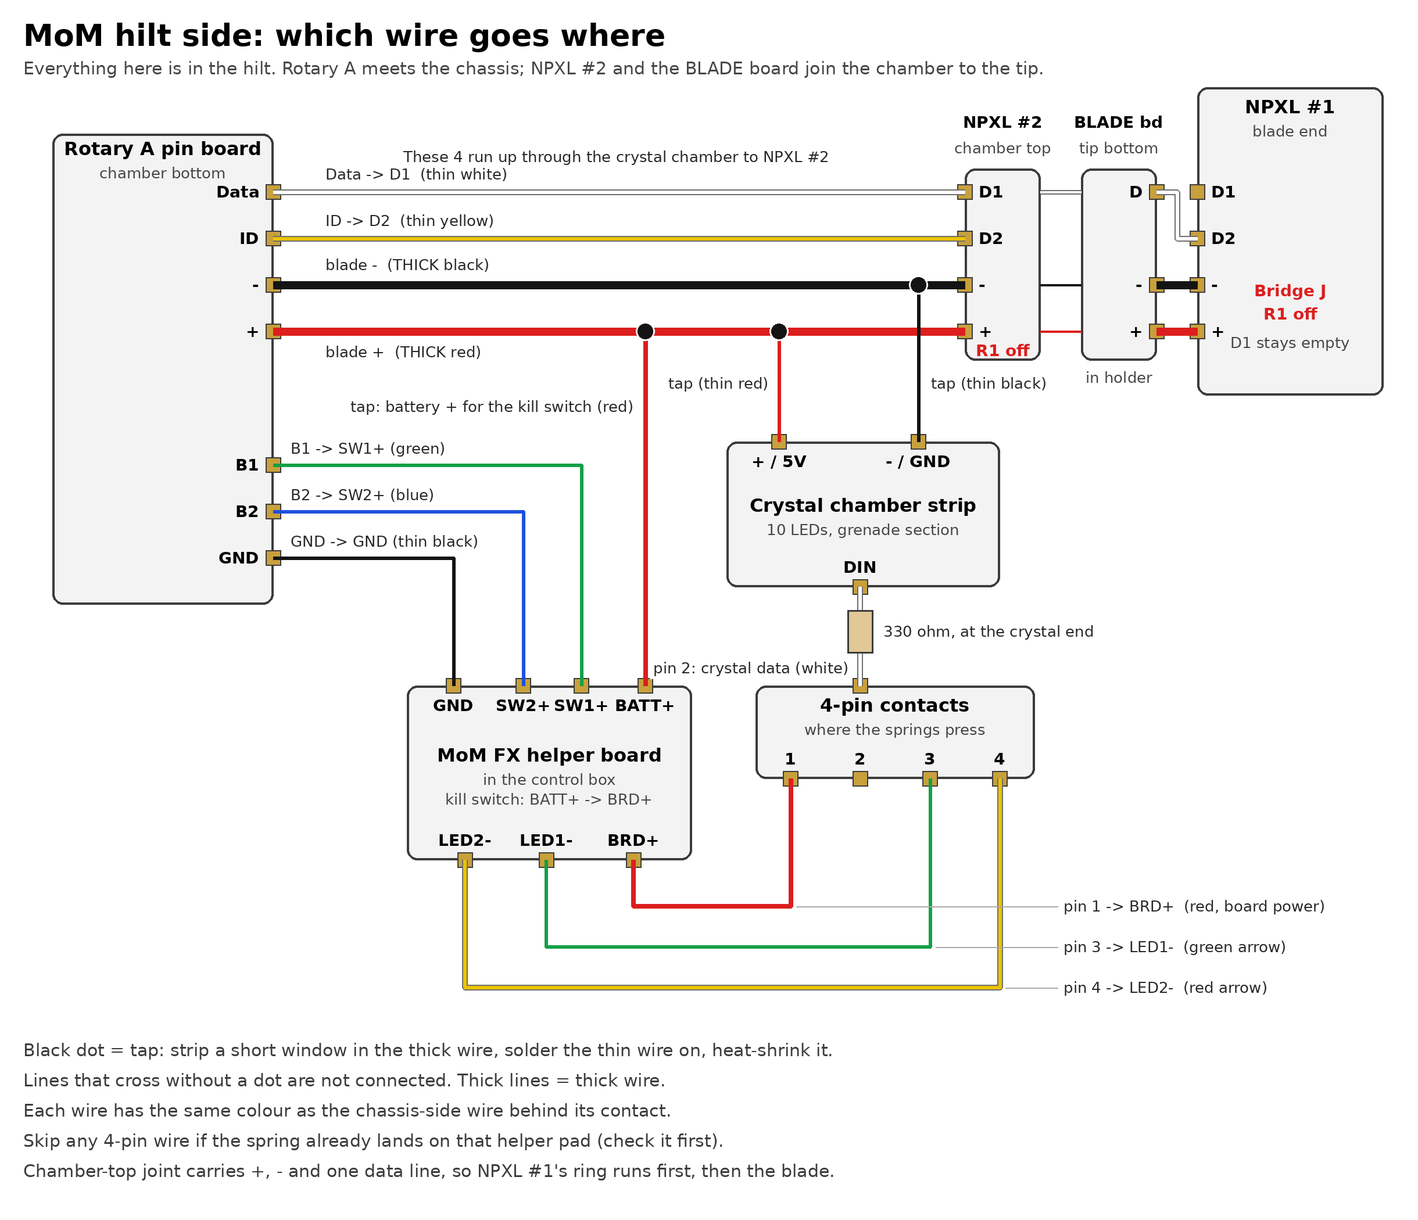
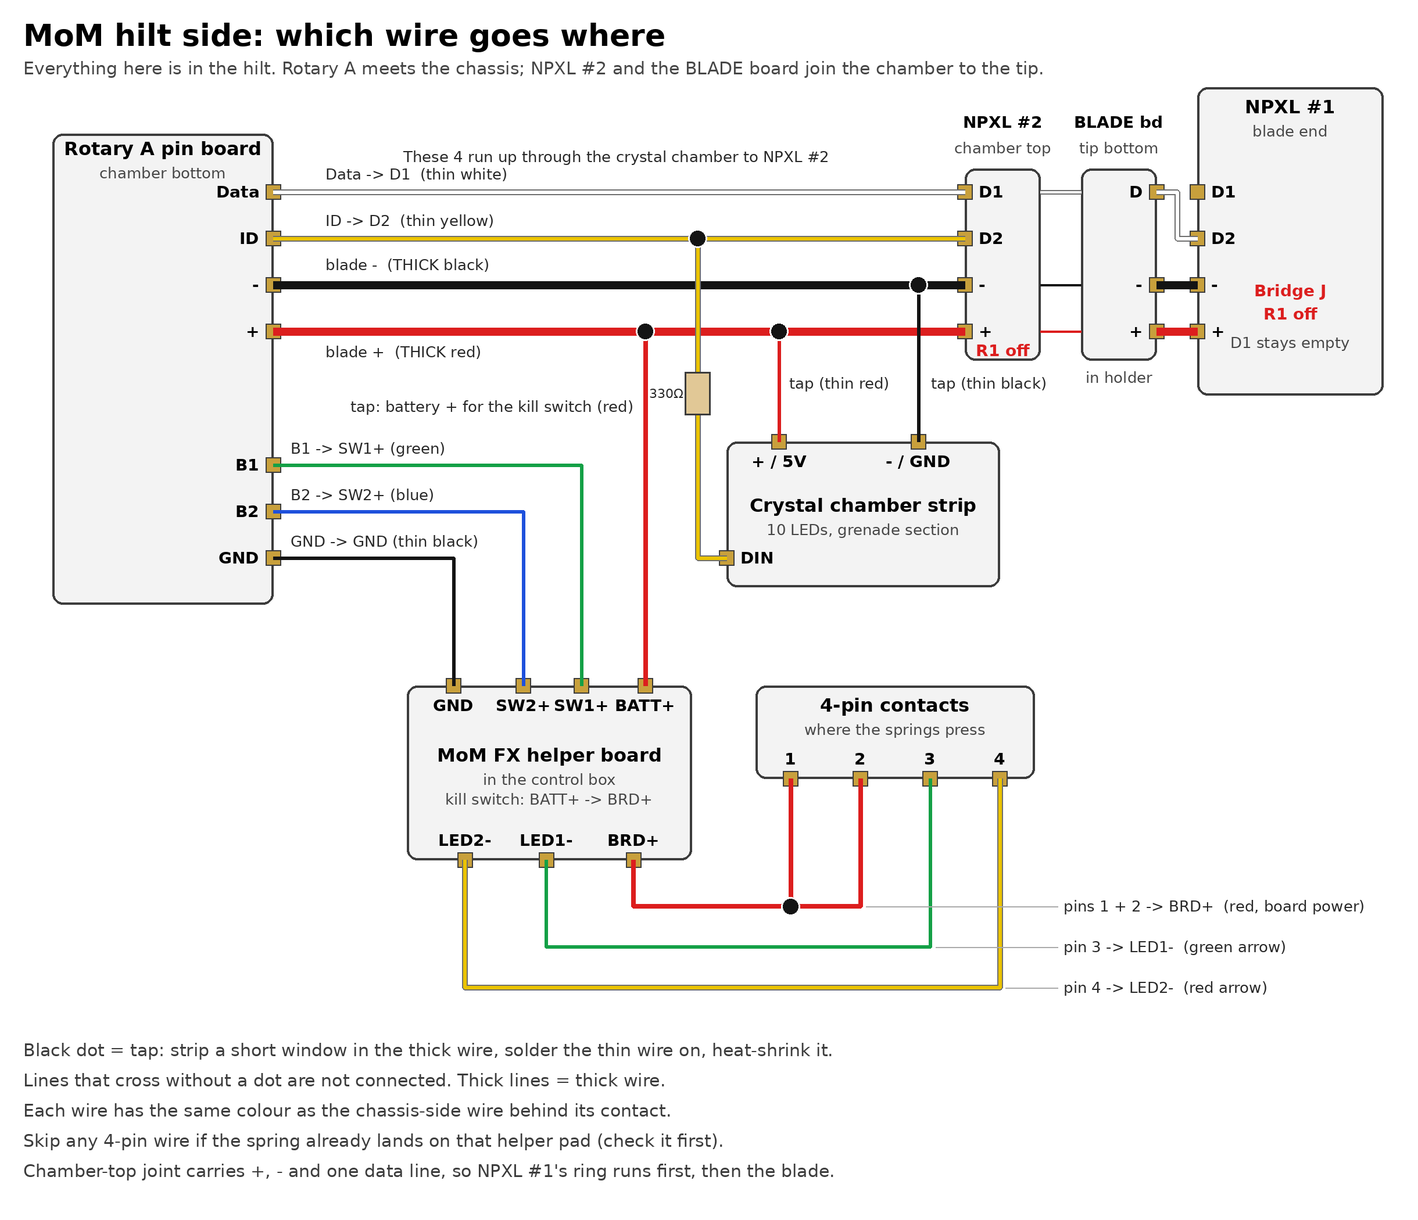
Feed the crystal strip from Data2 and put pin 2 back on BATT+
No wire can cross from the chassis into the crystal chamber, so the strip
taps the Data2 wire inside the chamber and copies NPXL #2's ring. Data3
is spare and 4-pin pin 2 joins pin 1 on BATT+. The config drops to 5
blades.

Claude-Session: https://claude.ai/code/session_01265pwD5zDbVVSh7CxSi4nL

diff --git a/saber-wiring/proffieos/mom_config.h b/saber-wiring/proffieos/mom_config.h
@@ -1,26 +1,27 @@
 // MoM (Magic of Myth) Luke ROTJ saber - Proffieboard V3.9, ProffieOS 8.10.
 //
 // Started from Fredrik Hubbe's Proffieboard V3 configurator output
-// (Illuminated PCB blade, neopixel crystal chamber, 2 buttons, FSC-BT909),
-// then extended with the control box's two lights. Wiring is in
-// ../README.md and ../out/mom/proffie-pads.png.
+// (Illuminated PCB blade, 2 buttons, FSC-BT909), then extended with the
+// control box's two lights. Wiring is in ../README.md,
+// ../out/mom/proffie-pads.png and ../out/mom/hilt-wiring.png.
 //
 // Data1 runs through the joint at the top of the crystal chamber (NPXL #2's
 // centre pin to the BLADE board), then into NPXL #1 at the blade end, which
 // is chained (Shtok's Option 3: data into D2, J bridged). So the Data1 strip
 // is RING_LEDS connector pixels first, then the 130 blade pixels.
 //
+// Data2 lights the crystal chamber: NPXL #2's 16-pixel ring at the top of
+// the chamber, with the 10-pixel crystal strip tapped onto the same data
+// wire (through 330 ohm). The strip shows the same pattern as the first 10
+// pixels of the ring.
+//
 // Blades, in the order every preset lists its styles:
 //   1. Main blade: 130 pixels on Data1 after the ring, negative on LED2 + LED3
 //   2. NPXL #1 ring at the blade end (plus the BLADE board's LEDs if they
 //      turn out to be in the chain), the first RING_LEDS pixels on Data1
-//   3. NPXL #2 ring at the top of the crystal chamber, first half (Data2)
-//   4. NPXL #2 ring, second half (same strip, interleaved)
-//   5. Crystal chamber: 10 pixels on Data3, carried to the hilt on 4-pin
-//      connector pin 2 (330 ohm at the crystal end). Its + and - are tapped
-//      from the blade's + and - lines in the hilt, so it shares LED2 + LED3.
-//   6. Control box green light, on LED5
-//   7. Control box red light, on LED6
+//   3. Crystal chamber lights: NPXL #2's ring and the crystal strip (Data2)
+//   4. Control box green light, on LED5
+//   5. Control box red light, on LED6
 //
 // Font folders: the first preset expects your Luke font in a folder named
 // LukeROTJ on the SD card. The others use the free fonts and tracks from
@@ -28,12 +29,12 @@
 
 #ifdef CONFIG_TOP
 #include "proffieboard_v3_config.h"
-#define NUM_BLADES 7
+#define NUM_BLADES 5
 #define NUM_BUTTONS 2
 #define VOLUME 1000
 // Pixels ahead of the blade on Data1: 16 for NPXL #1's ring, or 21 if the
-// BLADE board's 5 LEDs are in the chain too. With the old firmware, the
-// number of dark LEDs at the blade tip tells you which.
+// BLADE board's 5 LEDs turn out to be in the chain too (then the top 5 blade
+// LEDs stay dark with 16).
 #define RING_LEDS 16
 const unsigned int maxLedsPerStrip = RING_LEDS + 130;
 #define CLASH_THRESHOLD_G 1.0
@@ -41,7 +42,7 @@ const unsigned int maxLedsPerStrip = RING_LEDS + 130;
 #define ENABLE_MOTION
 #define ENABLE_WS2811
 #define ENABLE_SD
-// The main blade, both connector rings and the crystal share the LED2/LED3
+// The blade, both connector rings and the crystal strip share the LED2/LED3
 // power pins.
 #define SHARED_POWER_PINS
 // FSC-BT909 Bluetooth on the RX/TX pads.
@@ -55,8 +56,6 @@ Preset presets[] = {
   { "LukeROTJ", "tracks/mars.wav",
     StyleNormalPtr<AudioFlicker<GREEN, Rgb<0,160,0>>, WHITE, 300, 800>(),
     StyleNormalPtr<AudioFlicker<GREEN, Rgb<0,160,0>>, WHITE, 300, 800>(),
-    StyleNormalPtr<AudioFlicker<GREEN, Rgb<0,160,0>>, WHITE, 300, 800>(),
-    StyleNormalPtr<AudioFlicker<GREEN, Rgb<0,160,0>>, WHITE, 300, 800>(),
     StyleNormalPtr<Pulsing<GREEN, Rgb<0,40,0>, 1500>, WHITE, 300, 800>(),
     StyleNormalPtr<GREEN, WHITE, 300, 800>(),
     StyleNormalPtr<RED, WHITE, 300, 800>(),
@@ -64,15 +63,11 @@ Preset presets[] = {
   { "SmthJedi", "tracks/venus.wav",
     StyleNormalPtr<AudioFlicker<GREEN, Rgb<0,160,0>>, WHITE, 300, 800>(),
     StyleNormalPtr<AudioFlicker<GREEN, Rgb<0,160,0>>, WHITE, 300, 800>(),
-    StyleNormalPtr<AudioFlicker<GREEN, Rgb<0,160,0>>, WHITE, 300, 800>(),
-    StyleNormalPtr<AudioFlicker<GREEN, Rgb<0,160,0>>, WHITE, 300, 800>(),
     StyleNormalPtr<Pulsing<GREEN, Rgb<0,40,0>, 1500>, WHITE, 300, 800>(),
     StyleNormalPtr<GREEN, WHITE, 300, 800>(),
     StyleNormalPtr<RED, WHITE, 300, 800>(),
     "jedi green"},
   { "SmthGrey", "tracks/mercury.wav",
-    StyleNormalPtr<AudioFlicker<BLUE, Rgb<0,0,160>>, WHITE, 300, 800>(),
-    StyleNormalPtr<AudioFlicker<BLUE, Rgb<0,0,160>>, WHITE, 300, 800>(),
     StyleNormalPtr<AudioFlicker<BLUE, Rgb<0,0,160>>, WHITE, 300, 800>(),
     StyleNormalPtr<AudioFlicker<BLUE, Rgb<0,0,160>>, WHITE, 300, 800>(),
     StyleNormalPtr<Pulsing<BLUE, Rgb<0,0,40>, 1500>, WHITE, 300, 800>(),
@@ -85,8 +80,6 @@ Preset presets[] = {
     StyleNormalPtr<BLACK, BLACK, 300, 800>(),
     StyleNormalPtr<BLACK, BLACK, 300, 800>(),
     StyleNormalPtr<BLACK, BLACK, 300, 800>(),
-    StyleNormalPtr<BLACK, BLACK, 300, 800>(),
-    StyleNormalPtr<BLACK, BLACK, 300, 800>(),
     "battery\nlevel"},
 };
 
@@ -94,9 +87,7 @@ BladeConfig blades[] = {
  { 0,
     SubBlade(RING_LEDS, RING_LEDS + 129, WS281XBladePtr<RING_LEDS + 130, bladePin, Color8::GRB, PowerPINS<bladePowerPin2, bladePowerPin3> >()),
     SubBlade(0, RING_LEDS - 1, NULL),
-    SubBladeWithStride(0, 15, 2, WS281XBladePtr<16, blade2Pin, Color8::GRB, PowerPINS<bladePowerPin2, bladePowerPin3> >()),
-    SubBladeWithStride(1, 15, 2, NULL),
-    WS281XBladePtr<10, blade3Pin, Color8::GRB, PowerPINS<bladePowerPin2, bladePowerPin3> >(),
+    WS281XBladePtr<16, blade2Pin, Color8::GRB, PowerPINS<bladePowerPin2, bladePowerPin3> >(),
     SimpleBladePtr<CH2LED, NoLED, NoLED, NoLED, bladePowerPin5, -1, -1, -1>(),
     SimpleBladePtr<CH1LED, NoLED, NoLED, NoLED, bladePowerPin6, -1, -1, -1>(),
     CONFIGARRAY(presets) },

diff --git a/saber-wiring/README.md b/saber-wiring/README.md
@@ -20,7 +20,7 @@ The configurator doesn't know about the Shtok rotary connector or the MoM helper
 | Shtok Rotary NeoPixel & 2 Button PCB connector set (1 set) | Joins the removable chassis to the bottom of the crystal chamber. Carries power, blade data, connector-LED data and both buttons |
 | Shtok NPXL V4 hilt-side connectors (2) + 1" holder | **#1**, in the 1" holder at the blade end, is where the blade plugs in. **#2** sits at the top of the crystal chamber, pins up. Each has 16 LEDs of its own |
 | Round **BLADE** board (Shtok blade-side NPXL board, 5 LEDs) + the designer's copper and black pixel holder | Sits at the bottom of the tip section, flat contacts down onto NPXL #2's pins. Joins the crystal chamber to the tip: +, − and one data line |
-| 330 Ω 0603 resistor (surface-mount chip marked "331", on a paper strip; 0603 is 1.6 × 0.8 mm) | In series on the **crystal chamber** data wire, at the crystal end. Tin both ends, solder the wire from 4-pin pin 2 to one end and the crystal's DIN to the other, then cover it with heat shrink |
+| 330 Ω 0603 resistor (surface-mount chip marked "331", on a paper strip; 0603 is 1.6 × 0.8 mm) | In series on the **crystal strip's** data wire, close to its DIN. Tin both ends, solder the tap from the yellow Data2 wire to one end and the strip's DIN to the other, then cover it with heat shrink |
 | WS2812 mini strip, 10 LEDs | Crystal chamber light. Use all 10, or cut it to fit and set the count in the config |
 | 4-pin SMT spring-loaded connector | In the chassis end, beside the rotary ring board. The designer's spec: SMT, 2.5 × 10–11 mm, uncompressed pins no taller than 4 mm. Carries the kill-switch return and the two control-box lights (see "MoM FX helper board") |
 | Saberbay 1" thin-walled 36" neopixel blade | Main blade, 130 LEDs (Saberbay's formula: 36 ÷ 40 × 144 ≈ 130) |
@@ -99,14 +99,14 @@ Use **thick** wire only where the blade's current flows: the battery in and out,
 
 | Proffieboard pad | Wire | Runs to | Notes |
 | --- | --- | --- | --- |
-| **BATT+** | **Thick** (thin would also do) | Kill-switch return: 4-pin connector **pin 1** → helper **BRD+** | Only the board's own current flows here (about 1 A at most, at full volume), because the blade takes its + straight from the battery. At the pogo end, lay the wire alongside the pin's leg and solder it there, then heat-shrink it |
+| **BATT+** | **Thick** (thin would also do) | Kill-switch return: 4-pin connector **pins 1 and 2** → helper **BRD+** | Only the board's own current flows here (about 1 A at most, at full volume), because the blade takes its + straight from the battery. At the pogo end, lay the wire alongside the pin's leg and solder it there, then heat-shrink it |
 | **BATT−** | **Thick** | Battery − | Every LED's current comes back through here |
 | **LED2 + LED3** | **Thick** | Blade −: rotary **−** → NPXL **−** | The two pads are next to each other. Strip enough wire to lay across both and solder them together |
 | **GND** | Thin | Shared leg of both buttons: rotary **GND** → helper **GND** | GND and BATT− are joined on the board, so any GND or BATT− pad works |
 | **GND** | Thin | BT909 **GND** | |
 | **Data1** | Thin | Rotary **Data** → NPXL **D1** (blade) | Data1 has a 470 Ω resistor built in, so no extra resistor |
 | **Data2** | Thin | Rotary **ID** → NPXL **D2** (connector's 16 LEDs) | The NPXL has its own 330 Ω (R2) on D2 |
-| **Data3** | Thin | 4-pin connector **pin 2** → (hilt side) **330 Ω resistor** → crystal **DIN** | Data2–4 have no built-in resistor, so the 330 Ω goes in at the crystal end. If you already put it on the chassis side of this wire, leave it there and don't add a second |
+| **Data3** | None | Spare, not used | If you already soldered a wire here, tape its end. The crystal strip takes its data from Data2 in the crystal chamber |
 | **LED1** | None | Spare, not used | If you already soldered a wire here, tape its end and tuck it away. The crystal's − now comes from the blade − line in the hilt |
 | **BT1** | Thin | Rotary **B1** → helper **SW1+** (power) | |
 | **BT2** | Thin | Rotary **B2** → helper **SW2+** (aux) | |
@@ -129,7 +129,7 @@ Colour plan for black, red, white, green, yellow and blue. Each group of wires t
 | Ends at | Wires (Proffieboard pad → colour) |
 | --- | --- |
 | Rotary connector (chassis side) | blade + **red thick** (from the battery + contact), LED2+LED3 **black thick**, GND (pad 5) black thin, Data1 white, Data2 yellow, BT1 green, BT2 blue |
-| 4-pin connector (chassis end) | BATT+ red thick (pin 1), Data3 white (pin 2), LED5 green (pin 3), LED6 yellow (pin 4) |
+| 4-pin connector (chassis end) | BATT+ red thick (pins 1 and 2), LED5 green (pin 3), LED6 yellow (pin 4) |
 | Battery contacts | + : blade + **red thick**. − : BATT− **black thick** |
 | Bluetooth board | SDVDD red, GND black, TX yellow, RX blue |
 | Speaker | SPKR+ and SPKR− both green. Polarity doesn't matter with one speaker |
@@ -216,14 +216,14 @@ The board sits in the control box behind the green reveal board. The control-box
 | **BRD+** | BATT+ pad, through 4-pin **pin 1** | Designer: "Pin1 = Kill Switch-to-Board Batt+". Run check 2 |
 | **LED1−** | LED5, through 4-pin **pin 3** | Designer: "Pin3 = LEDx arrow neg-". Run check 3 |
 | **LED2−** | LED6, through 4-pin **pin 4** | Designer: "Pin4 = LEDy arrow neg-" |
-| **DATA1 / DATA2** | Maybe the crystal's data | Run check 4. Plain LEDs don't take data, so these may pass 4-pin pin 2's data on to the crystal |
+| **DATA1 / DATA2** | Leave unconnected | Run check 4. Plain LEDs don't take data. Nothing in this build needs them |
 
 For the MoM, the chassis designer's notes give the 4-pin connector's pinout (for the plain-LED helper board):
 
 | Pin | Designer's label | Proffieboard wire |
 | --- | --- | --- |
 | 1 | Kill Switch-to-Board Batt+ | BATT+ (pad 4), red thick |
-| 2 | Extra: a second Batt+, or an extra data line | Data3 (pad 14), white: the crystal's data. Pin 1 then carries BATT+ alone, so check it after the first power-up (step 9 of the hilt side) |
+| 2 | Extra: a second Batt+, or an extra data line | BATT+ too, with pin 1. Two pins share the board's current, as the designer recommends, so no single-pin load test is needed |
 | 3 | LEDx arrow neg- | LED5 (pad 10), green |
 | 4 | LEDy arrow neg- | LED6 (pad 11), yellow |
 
@@ -239,9 +239,9 @@ Checks, using a multimeter in continuity (beep) mode with nothing connected:
    - If it beeps, they're joined, probably through F1 as a fuse, and the kill switch is somewhere else in the hilt.
    - If it doesn't beep, see whether BATT+ and BRD+ each beep to one of the three big **U$2** pads. If they do, U$2 is probably where the 3-pin slide switch (kill switch) goes.
 3. **LEDs:** **LED1−** should beep to a pad of the white part marked LED1. **LED2−** should do the same with LED2.
-4. **Data:** find out where **DATA1** and **DATA2** go. Test each one against the three **U$2** pads, the other parts on the board, and the spot where 4-pin pin 2 lands. If one is joined to pin 2's contact, that's the crystal's data path: wire the crystal's DIN (through the 330 Ω) to that pad. Otherwise leave both empty.
+4. **Data:** find out where **DATA1** and **DATA2** go. Test each one against the three **U$2** pads and the other parts on the board. Nothing in this build needs them, so leave both empty.
 
-The config already drives LED1 and LED2 as two plain LEDs on LED5 and LED6 (blades 5 and 6).
+The config already drives LED1 and LED2 as two plain LEDs on LED5 and LED6 (blades 4 and 5).
 
 ## Hilt side: step by step
 
@@ -250,7 +250,7 @@ None of the install videos show this wiring, so it's worked out from the parts' 
 - **Up through the crystal chamber: 4 wires.** Blade + and − (thick), Data and ID (thin), from rotary **A**'s pin board at the bottom of the chamber to **NPXL #2** at its top, pins up. Its own 16 LEDs take ID (Data2).
 - **The chamber-to-tip joint:** NPXL #2's pins press on the **BLADE** board, held in the designer's copper and black pixel holder at the bottom of the tip section. Only +, − and one data line (the centre pin) cross it.
 - **Tip section: 3 wires.** From the BLADE board up to **NPXL #1** at the blade end. NPXL #1 is chained (Option 3): data into D2, J bridged, so its 16 LEDs come first and the blade follows.
-- **At the crystal chamber: 3 wires.** + and − tapped off the blade + and − wires as they pass, and data from 4-pin pin 2.
+- **At the crystal chamber: 3 wires to the strip.** + and − tapped off the blade + and − wires as they pass, and data tapped off the yellow Data2 wire through the 330 Ω. The strip shows the same pattern as NPXL #2's ring. No wire crosses from the chassis.
 - **At the helper board in the control box:** the buttons (B1, B2 and GND from the rotary pin board), battery + for the kill switch (a tap off blade +) and the 4-pin contacts.
 
 ![Hilt-side wiring](out/mom/hilt-wiring.png)
@@ -270,14 +270,14 @@ None of the install videos show this wiring, so it's worked out from the parts' 
 | Tap on blade + | Helper **BATT+** (kill switch in) | Thin will do; thick if it fits | Red |
 | Tap on blade + | Crystal **+ / 5V** | Thin | Red |
 | Tap on blade − | Crystal **− / GND** | Thin | Black |
-| 4-pin **pin 2** contact | **330 Ω** → crystal **DIN** | Thin | White |
-| 4-pin **pin 1** contact | Helper **BRD+** (kill switch out) | Thin will do; thick if it fits | Red |
+| Tap on the yellow Data2 wire | **330 Ω** → crystal **DIN** | Thin | Yellow |
+| 4-pin **pin 1** and **pin 2** contacts | Helper **BRD+** (kill switch out) | Thin will do; thick if it fits | Red |
 | 4-pin **pin 3** contact | Helper **LED1−** | Thin | Green |
 | 4-pin **pin 4** contact | Helper **LED2−** | Thin | Yellow |
 
 Each wire has the same colour as the chassis-side wire behind its contact, so a colour means the same thing end to end.
 
-1. **Find where the 4-pin springs land.** Fit the chassis and see what the four springs press on in the hilt. If they land on helper board pads, those pads set the pin order: the spring on **BRD+** is pin 1 and gets the red BATT+ wire on the chassis side, and so on. If they land on blank contacts, you pick the order; keep the colours as in the tables. With the multimeter on beep, also test each landing spot against the helper's pads. Any that's already joined to its pad (pin 1 → BRD+, pin 3 → LED1−, pin 4 → LED2−) needs no wire in step 7. Pin 2 may land on DATA1 or DATA2 (helper check 4).
+1. **Find where the 4-pin springs land.** Fit the chassis and see what the four springs press on in the hilt. If they land on helper board pads, those pads set the pin order: the spring on **BRD+** is pin 1 and gets the red BATT+ wire on the chassis side, and so on. If they land on blank contacts, you pick the order; keep the colours as in the tables. With the multimeter on beep, also test each landing spot against the helper's pads. Any that's already joined to its pad (pin 1 → BRD+, pin 3 → LED1−, pin 4 → LED2−) needs no wire in step 7.
 2. **NPXLs:** remove **R1** on both and leave R2. On **NPXL #1** also bridge **J** and leave **D1** empty.
 3. **Blade wires, in two runs.**
    - **Chamber-to-tip joint:** press the BLADE board into the pixel holder, flat contact face down (toward the chamber), the side printed "BLADE" up. Fit the holder at the bottom of the tip section. Dry-fit the tip onto the chamber with NPXL #2 in place: its pins should compress partway and the centre pin should land on the BLADE board's centre pad.
@@ -288,8 +288,8 @@ Each wire has the same colour as the chassis-side wire behind its contact, so a 
    - Blade + → crystal + (thin red) and blade − → crystal − (thin black), where the wires pass the crystal chamber.
    - Blade + → helper BATT+ (red), near the control box. If rotary A's + pad has room, you can instead lay this wire alongside the thick one on that pad.
    - The crystal's − goes on the blade − wire, not the helper's GND. The board switches blade − off with the blade, so the crystal goes fully dark. On GND, its LEDs would draw a few mA all the time, even with the kill switch off.
-6. **Crystal data.** Run the white wire from the 4-pin pin 2 contact (or the DATA pad it lands on) to the crystal. Stop about 1 cm short of DIN, solder the 330 Ω in line there, add a short stub to DIN and heat-shrink over the resistor. Use the strip's DIN end, where the arrows point away from the wire.
-7. **4-pin contacts to the helper**, unless step 1 showed they're already joined: pin 1 → BRD+, pin 3 → LED1−, pin 4 → LED2−.
+6. **Crystal data.** Tap the yellow Data2 wire (rotary A's ID → NPXL #2's D2) inside the chamber, the same way as the + and − taps. Run that tap to the strip, stop about 1 cm short of DIN, solder the 330 Ω in line there, add a short stub to DIN and heat-shrink over the resistor. Use the strip's DIN end, where the arrows point away from the wire.
+7. **4-pin contacts to the helper**, unless step 1 showed they're already joined: pins 1 and 2 → BRD+, pin 3 → LED1−, pin 4 → LED2−.
 8. **Multimeter checks, battery out.**
    - Should beep, with the chamber and tip screwed together: rotary A pin board + ↔ NPXL #1 +, − ↔ NPXL #1 −. Rotary A Data ↔ NPXL #2 D1. Crystal + ↔ blade +, crystal − ↔ blade −.
    - Must not beep: NPXL #1 D1 to anything (it stays empty), and rotary A Data ↔ rotary A ID.
@@ -298,7 +298,7 @@ Each wire has the same colour as the chassis-side wire behind its contact, so a 
 9. **First power-up.** Kill switch off, battery in, chassis in, then switch on: you should hear the boot sound. Ignite. The blade, both NPXLs' LEDs, the crystal and both arrow lights should come on.
    - Crystal dark: check it's wired at the DIN end, check the 330 Ω joints, and check the LED count in the config.
    - Arrow colours swapped: swap `bladePowerPin5` and `bladePowerPin6` in the config.
-   - **Pin 1 check:** run it for a few minutes at full volume with some swings and clashes. The 4-pin should be no more than slightly warm, and the board shouldn't restart on loud clashes. If it does either, lower `VOLUME`, or put pin 2 back on BATT+ and give the crystal data another route.
+   - **4-pin check:** run it for a few minutes at full volume with some swings and clashes. The 4-pin should be no more than slightly warm, and the board shouldn't restart on loud clashes. If it does either, lower `VOLUME`.
 
 ## Still to confirm
 
@@ -308,7 +308,6 @@ Each wire has the same colour as the chassis-side wire behind its contact, so a 
 - **Helper board:** the four checks above, and whether Veracity's v4.1 is the chassis designer's V2.
 - **Kill switch for the MoM:** the one High Amp Kill Switch in the order is counted for the Obi-Wan. The MoM's switch sits on the helper board, between its BATT+ and BRD+ (check 2 should show the U$2 pads there). Because blade + comes straight from the battery, this switch only carries the board's own current, about 1 A at most. Check the mini black slide switch's rating, or ask the kit maker which switch U$2 is meant for.
 - **4-pin connector part:** the designer's spec is a 4-pin **SMT** spring-loaded connector, 2.5 × 10–11 mm, with uncompressed pins no taller than 4 mm (the chassis takes 3 or 4 mm). The Treedix strip doesn't fit that: it's through-hole, and its 7.5 mm pins are nearly twice the maximum. Measure the 4-pin SMT connector you already had. If it's about 2.5 × 10–11 mm with pins no taller than 4 mm, it's the right part after all, used springs-out with no flipped strip or target. If not, look for one to that spec, for example on Mouser as the designer suggests.
-- **Pin 1 on its own:** with the crystal data on pin 2, pin 1 carries BATT+ alone. The designer asks for a 1.5 A load test on a single pin. The board draws about 1 A at most, so it should be fine, but check it at the first power-up (step 9 of the hilt side).
 
 ## ProffieOS config to flash: `proffieos/mom_config.h`
 
@@ -318,12 +317,11 @@ Each wire has the same colour as the chassis-side wire behind its contact, so a 
 | --- | --- | --- |
 | 1 | Main blade, 130 pixels, after the ring on the same strip | Data1, LED2 + LED3 |
 | 2 | NPXL #1's ring at the blade end: the first `RING_LEDS` pixels on Data1 (16, or 21 if the BLADE board's 5 LEDs are in the chain) | Data1, LED2 + LED3 |
-| 3–4 | NPXL #2's ring at the top of the crystal chamber, as two interleaved halves (how the configurator handles an Illuminated PCB) | Data2, LED2 + LED3 |
-| 5 | Crystal chamber, 10 pixels | Data3 via 4-pin pin 2 and a 330 Ω; LED2 + LED3 (its − taps the blade − wire) |
-| 6 | Control box green light | LED5 |
-| 7 | Control box red light | LED6 |
+| 3 | Crystal chamber lights: NPXL #2's 16-pixel ring at the top of the chamber, and the 10-pixel crystal strip tapped onto the same data wire (it copies the ring's first 10) | Data2, LED2 + LED3 |
+| 4 | Control box green light | LED5 |
+| 5 | Control box red light | LED6 |
 
-**Setting `RING_LEDS`:** with the old firmware still on the board, ignite and count the dark LEDs at the blade's tip. 16 dark means only NPXL #1's ring is ahead of the blade, so leave it at 16. 21 dark means the BLADE board's 5 LEDs are in the chain too, so set it to 21.
+**`RING_LEDS`** is 16: the BLADE board's 5 LEDs most likely tap its data line in parallel, so they don't take places in the chain. If the top 5 blade LEDs stay dark after flashing, set it to 21 and reflash.
 
 | Preset | Font folder | Look |
 | --- | --- | --- |
